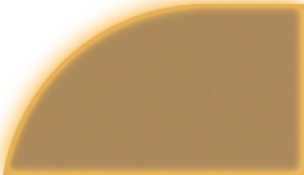
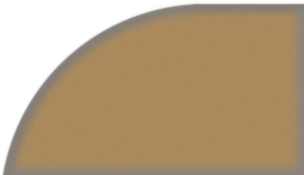
added glow functionality to all player fields

Changed region(s): [[0.0, 0.0, 1.0, 1.0]]

diff --git a/src/app/game/player/bottom-left/bottom-left.component.ts b/src/app/game/player/bottom-left/bottom-left.component.ts
@@ -92,9 +92,9 @@ export class BottomLeftComponent implements OnInit {
   playerFieldGlow(status: boolean) {
       (<any>$(document)).ready(function () {
         if(status)
-          (<any>$("#glow")).css("background-image", "url(../../assets/images/bottom_left_active.png)");
+          (<any>$("#glow1")).css("background-image", "url(../../assets/images/bottom_left_active.png)");
         else
-          (<any>$("#glow")).css("background-image", "url(../../assets/images/bottom_left.png)");
+          (<any>$("#glow1")).css("background-image", "url(../../assets/images/bottom_left.png)");
       });
   }
 

diff --git a/src/app/game/player/bottom-right/bottom-right.component.ts b/src/app/game/player/bottom-right/bottom-right.component.ts
@@ -81,6 +81,15 @@ export class BottomRightComponent implements OnInit {
 
   }
 
+  playerFieldGlow(status: boolean) {
+    (<any>$(document)).ready(function () {
+      if(status)
+        (<any>$("#glow4")).css("background-image", "url(../../assets/images/bottom_right_active.png)");
+      else
+        (<any>$("#glow4")).css("background-image", "url(../../assets/images/bottom_right.png)");
+    });
+  }
+
   setMarketCards(marketCards_target:number[]){
 
     // define protocol: which market card

diff --git a/src/app/game/player/top-right/top-right.component.ts b/src/app/game/player/top-right/top-right.component.ts
@@ -79,6 +79,15 @@ export class TopRightComponent implements OnInit {
 
   }
 
+  playerFieldGlow(status: boolean) {
+    (<any>$(document)).ready(function () {
+      if(status)
+        (<any>$("#glow")).css("background-image", "url(../../assets/images/top_right_active.png)");
+      else
+        (<any>$("#glow")).css("background-image", "url(../../assets/images/top_right.png)");
+    });
+  }
+
   setMarketCards(marketCards_target:number[]){
 
     // define protocol: which market card

diff --git a/src/app/game/player/top-left/top-left.component.ts b/src/app/game/player/top-left/top-left.component.ts
@@ -81,6 +81,15 @@ export class TopLeftComponent implements OnInit {
 
   }
 
+  playerFieldGlow(status: boolean) {
+    (<any>$(document)).ready(function () {
+      if(status)
+        (<any>$("#glow2")).css("background-image", "url(../../assets/images/top_left_active.png)");
+      else
+        (<any>$("#glow2")).css("background-image", "url(../../assets/images/top_left.png)");
+    });
+  }
+
   setMarketCards(marketCards_target:number[]){
 
     // define protocol: which market card

diff --git a/src/app/game/game.component.ts b/src/app/game/game.component.ts
@@ -679,6 +679,10 @@ export class GameComponent  implements OnInit {
   }
   trigger_FieldGlow(){
     this.bottomLeftComponent.playerFieldGlow(this.glow_target);
+    this.topLeftComponent.playerFieldGlow(this.glow_target);
+    this.bottomRightComponent.playerFieldGlow(this.glow_target);
+    this.topRightComponent.playerFieldGlow(this.glow_target);
+
     this.glow_target = !this.glow_target;
   }
   trigger_setMarketCards(){

diff --git a/src/app/game/player/bottom-right/bottom-right.component.css b/src/app/game/player/bottom-right/bottom-right.component.css
@@ -17,6 +17,16 @@ p{
   /**border: 1px solid #4492ff;/*border: 1px solid orange;*/
 }
 
+
+.background{
+  background-image: url(/../../../../assets/images/bottom_right.png);
+  background-size: 100% auto;
+  background-repeat: no-repeat;
+  width: 100%;
+  height: 100%;
+  float: left;
+}
+
 .name_text{
   font: 400 20px "Lithos Pro", Helvetica, Sans-Serif;
   vertical-align: bottom;

diff --git a/src/app/game/player/top-right/top-right.component.css b/src/app/game/player/top-right/top-right.component.css
@@ -17,6 +17,16 @@ p{
   /**border: 1px solid #7689ff;/*border: 1px solid orange;*/
 }
 
+
+.background{
+  background-image: url(/../../../../assets/images/top_right.png);
+  background-size: 100% auto;
+  background-repeat: no-repeat;
+  width: 100%;
+  height: 100%;
+  float: left;
+}
+
 .name_text{
   font: 400 20px "Lithos Pro", Helvetica, Sans-Serif;
   vertical-align: bottom;

diff --git a/src/app/game/player/top-left/top-left.component.css b/src/app/game/player/top-left/top-left.component.css
@@ -17,6 +17,16 @@ p{
   /**border: 1px solid #5a75ff;/*border: 1px solid orange;*/
 }
 
+
+.background{
+  background-image: url(/../../../../assets/images/top_left.png);
+  background-size: 100% auto;
+  background-repeat: no-repeat;
+  width: 100%;
+  height: 100%;
+  float: left;
+}
+
 .name_text{
   font: 400 20px "Lithos Pro", Helvetica, Sans-Serif;
   vertical-align: bottom;

diff --git a/src/app/game/game.component.css b/src/app/game/game.component.css
@@ -73,18 +73,15 @@
 
 
 .player_top_left {
-  background-image: url(../../assets/images/top_left.png);
 }
 
 .player_bottom_left {
 }
 
 .player_top_right {
-  background-image: url(../../assets/images/top_right.png);
 }
 
 .player_bottom_right {
-  background-image: url(../../assets/images/bottom_right.png);
 }
 
 

diff --git a/src/app/game/player/bottom-left/bottom-left.component.css b/src/app/game/player/bottom-left/bottom-left.component.css
@@ -20,7 +20,7 @@ p{
 
 .background{
   background-image: url(/../../../../assets/images/bottom_left.png);
-  background-size: contain;
+  background-size: 100% auto;
   background-repeat: no-repeat;
   width: 100%;
   height: 100%;

diff --git a/src/app/game/player/bottom-right/bottom-right.component.html b/src/app/game/player/bottom-right/bottom-right.component.html
@@ -1,3 +1,4 @@
+<div class="background" id="glow4">
 <div class="top_part">
   <div class="player_name">
     <p class = name_text>{{playerName}}</p>
@@ -49,4 +50,4 @@
     <p>{{quarryStones}}</p>
   </div>
 </div>
-
+</div>

diff --git a/src/app/game/player/top-left/top-left.component.html b/src/app/game/player/top-left/top-left.component.html
@@ -1,3 +1,4 @@
+<div class="background" id="glow2">
 <div class="bottom_part">
 
   <div class="low_l score">
@@ -54,5 +55,5 @@
     <p class = name_text>{{playerName}}</p>
   </div>
 </div>
-
+</div>
 
